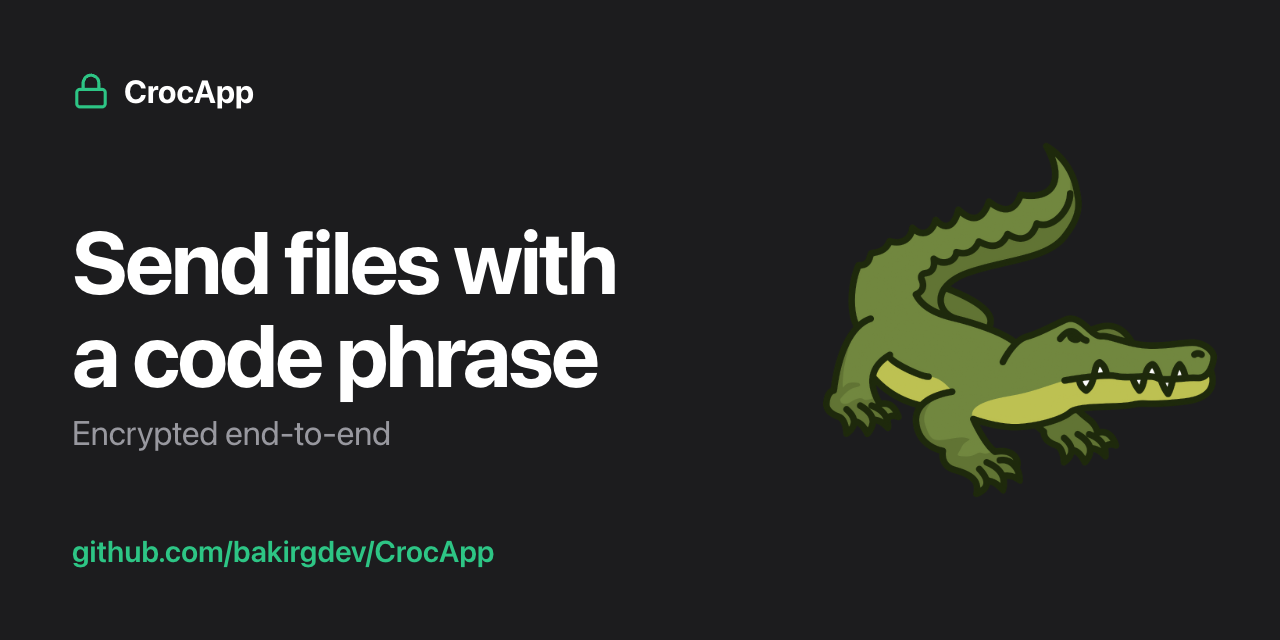
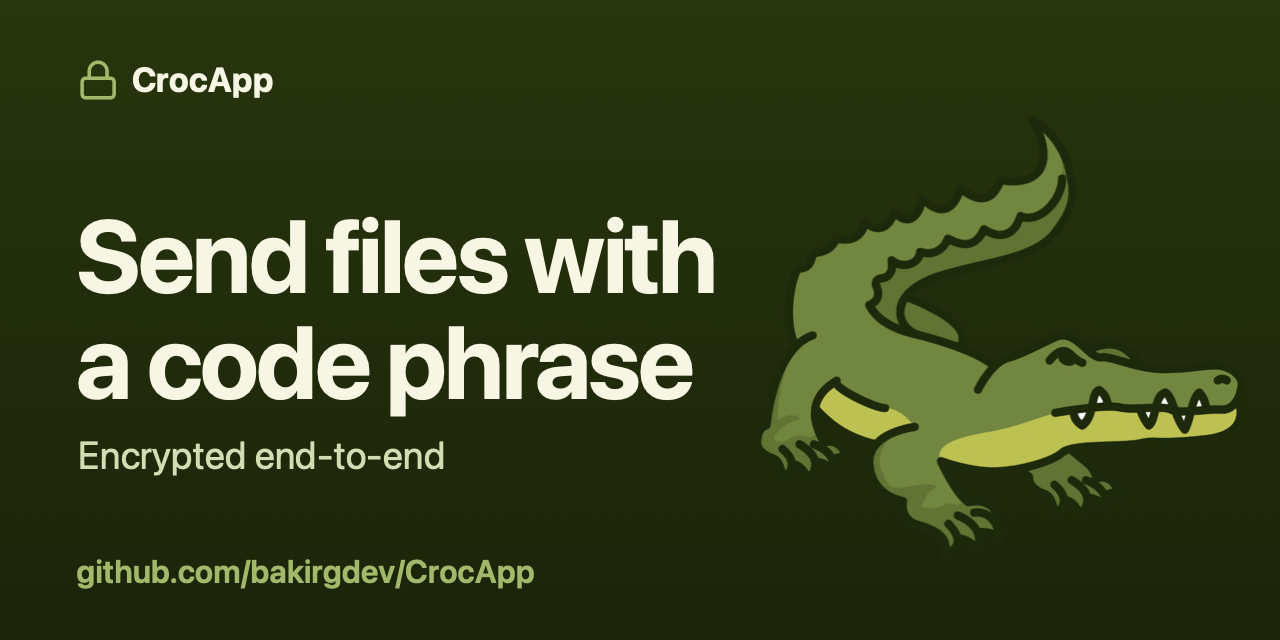
feat(web): tighten the landing and docs copy, SEO and social cards for v1.1.0 (#102)
## What changed
- Landing feature lists, relay FAQ, privacy page (notifications, saved
codes in the Keychain, the relay a Mac can run) and `llms.txt` match the
v1.1.0 features on main. The release status stays at 1.0.0.
- New `web/docs/static/llms.txt` (served at `/docs/llms.txt`), the
own-relay page added to the landing `llms.txt`, sitemap `lastmod`
refreshed.
- New olive social cards from `scripts/social-cards.swift`: `og.jpg`
(1200x630, 109 KB, landing and docs) and
`assets/github-social-preview.png` (1280x640, 252 KB, to upload by hand
in the repo settings).
- `security.txt` stays in `web/landing/.well-known/` (Expires
2027-08-01); decision recorded in landing-page.md.
- landing-page.md, docs-site.md, brand.md and known-issues.md updated.

## Verification
- `scripts/assemble-site.sh` and `pnpm run typecheck` in web/docs: pass.
`scripts/verify-docs.sh`, `scripts/verify-design.sh`: pass. JSON-LD
parses, sitemap is well-formed.
- Lighthouse 13.6.0 (npx), local build behind a gzip server, mobile and
desktop, landing, docs home and a docs page: accessibility, best
practices and SEO 100 everywhere; performance 97 to 100 except landing
mobile, which is intermittently 81 from a pre-paint layout shift
(known-issues.md).

## Not verified
Widgets and Control Center controls are not on main, so they are not
claimed. Social cards not checked in a real unfurl.

diff --git a/web/landing/index.html b/web/landing/index.html
@@ -347,7 +347,7 @@
                 <li><svg aria-hidden="true"><use href="#i-check" /></svg>Files, several at once</li>
                 <li><svg aria-hidden="true"><use href="#i-check" /></svg>Whole folders</li>
                 <li><svg aria-hidden="true"><use href="#i-check" /></svg>Text and clipboard snippets</li>
-                <li><svg aria-hidden="true"><use href="#i-check" /></svg>Send from any app with the share sheet on iPhone and iPad</li>
+                <li><svg aria-hidden="true"><use href="#i-check" /></svg>Send from the share sheet, or from Finder's Share menu on a Mac. Text and links work too</li>
                 <li><svg aria-hidden="true"><use href="#i-check" /></svg>Show a QR code, or share a link, instead of reading the code out</li>
                 <li><svg aria-hidden="true"><use href="#i-check" /></svg>Send as Link: upload encrypted files so the receiver can download later</li>
                 <li><svg aria-hidden="true"><use href="#i-check" /></svg>Zip a folder before sending</li>
@@ -360,7 +360,7 @@
               <h3 class="t-headline card__title">Receive</h3>
               <ul class="featlist t-callout" role="list">
                 <li><svg aria-hidden="true"><use href="#i-check" /></svg>Receive with a code phrase</li>
-                <li><svg aria-hidden="true"><use href="#i-check" /></svg>Set your own code phrase, six characters or more</li>
+                <li><svg aria-hidden="true"><use href="#i-check" /></svg>Set your own code phrase, six characters or more, or keep one per person in the Keychain</li>
                 <li><svg aria-hidden="true"><use href="#i-check" /></svg>Scan a QR code on iPhone and iPad</li>
                 <li><svg aria-hidden="true"><use href="#i-check" /></svg>Open a CrocApp link to fill in the code</li>
                 <li><svg aria-hidden="true"><use href="#i-check" /></svg>See the file list before you accept</li>
@@ -374,11 +374,11 @@
               <h3 class="t-headline card__title">Trust and control</h3>
               <ul class="featlist t-callout" role="list">
                 <li><svg aria-hidden="true"><use href="#i-check" /></svg>Encryption badge and a plain-language explanation</li>
-                <li><svg aria-hidden="true"><use href="#i-check" /></svg>Your own relay, with password and IPv6</li>
+                <li><svg aria-hidden="true"><use href="#i-check" /></svg>Your own relay, with password and IPv6. A Mac can run one, and Check Relay tests it</li>
                 <li><svg aria-hidden="true"><use href="#i-check" /></svg><span><strong>Local Network Only</strong> setting</span></li>
                 <li><svg aria-hidden="true"><use href="#i-check" /></svg>Auto-accept off by default, and marked when on</li>
                 <li><svg aria-hidden="true"><use href="#i-check" /></svg>Ask both devices to confirm</li>
-                <li><svg aria-hidden="true"><use href="#i-check" /></svg>Turn compression off</li>
+                <li><svg aria-hidden="true"><use href="#i-check" /></svg>Turn compression off, skip local discovery, send over one connection</li>
               </ul>
             </article>
 
@@ -386,8 +386,10 @@
               <svg class="card__icon" aria-hidden="true"><use href="#i-zap" /></svg>
               <h3 class="t-headline card__title">Native</h3>
               <ul class="featlist t-callout" role="list">
-                <li><svg aria-hidden="true"><use href="#i-check" /></svg>Progress, speed and cancel, with a Live Activity on iPhone</li>
-                <li><svg aria-hidden="true"><use href="#i-check" /></svg>Quick send from the Mac menu bar</li>
+                <li><svg aria-hidden="true"><use href="#i-check" /></svg>Progress, speed and cancel, with a Live Activity on iPhone that shows no file name unless you ask, and progress in the Mac Dock</li>
+                <li><svg aria-hidden="true"><use href="#i-check" /></svg>A Last Transfer widget, and Send and Receive controls for Control Center</li>
+                <li><svg aria-hidden="true"><use href="#i-check" /></svg>Send and receive from the Mac menu bar</li>
+                <li><svg aria-hidden="true"><use href="#i-check" /></svg>Notifications when a transfer finishes, fails or needs your answer</li>
                 <li><svg aria-hidden="true"><use href="#i-check" /></svg>Shortcuts and Siri actions</li>
                 <li><svg aria-hidden="true"><use href="#i-check" /></svg>Transfer history that stays on your device</li>
                 <li><svg aria-hidden="true"><use href="#i-check" /></svg>Tries the local network and the relay at once</li>
@@ -404,20 +406,20 @@
         <div class="container">
           <div class="section__head">
             <h2 class="t-web-section" id="download-title">Download</h2>
-            <p class="t-web-lead">Free. No account, no tiers. The Mac disk image is available now; the App Store versions are coming.</p>
+            <p class="t-web-lead">Free. No account, no tiers. The first release, v1.1.0, is coming soon for Mac, iPhone and iPad.</p>
           </div>
 
           <div class="grid">
             <div class="card dlcard">
               <svg class="card__icon" aria-hidden="true"><use href="#i-download" /></svg>
               <h3 class="t-headline card__title">Mac disk image</h3>
-              <p class="t-callout card__body">Available now. Notarized, for Apple silicon, with built-in updates.</p>
+              <p class="t-callout card__body">Coming soon with v1.1.0, the first release. Notarized, for Apple silicon, with built-in updates.</p>
               <a
                 class="btn btn--md btn--secondary dlcard__action"
                 href="https://github.com/bakirgdev/CrocApp/releases/latest" target="_blank" rel="noopener"
               >
                 <svg class="btn__icon" aria-hidden="true"><use href="#i-download" /></svg>
-                Download Disk Image
+                GitHub Releases
                 <span class="u-visually-hidden">(opens in a new tab)</span>
               </a>
             </div>
@@ -600,7 +602,9 @@
             <div class="disclosure__body t-callout">
               <p>
                 Yes. Point CrocApp at any croc relay, with a password and IPv6 if you want them.
-                Running <code class="t-code">croc relay</code> on a machine you control is enough.
+                Running <code class="t-code">croc relay</code> on a machine you control is enough, and
+                a Mac running CrocApp can start one from Settings. <strong>Check Relay</strong> reports
+                whether a relay is reachable and accepts your password.
               </p>
             </div>
           </details>
@@ -730,11 +734,10 @@
       </div>
     </footer>
 
-    <!-- No aggregateRating: there are no ratings. downloadUrl is the direct
-         download; add the store listings to it once they exist. softwareVersion
-         and datePublished (the first public release, 0.9.9) are hand-maintained:
-         bump softwareVersion with every release. No FAQPage block: Google limits
-         that rich result to government and health sites. -->
+    <!-- No aggregateRating: there are no ratings. No softwareVersion, downloadUrl,
+         releaseNotes or datePublished until the first release is public: the
+         release PR adds them (RELEASING.md, "Each release"). No FAQPage block:
+         Google limits that rich result to government and health sites. -->
     <script type="application/ld+json">
       {
         "@context": "https://schema.org",
@@ -752,11 +755,7 @@
             "isAccessibleForFree": true,
             "offers": { "@type": "Offer", "price": "0", "priceCurrency": "USD" },
             "author": { "@id": "https://crocapp.dev/#author" },
-            "sameAs": ["https://github.com/bakirgdev/CrocApp"],
-            "downloadUrl": "https://github.com/bakirgdev/CrocApp/releases/latest",
-            "softwareVersion": "1.0.0",
-            "releaseNotes": "https://github.com/bakirgdev/CrocApp/releases",
-            "datePublished": "2026-07-30"
+            "sameAs": ["https://github.com/bakirgdev/CrocApp"]
           },
           {
             "@type": "Person",

diff --git a/scripts/social-cards.swift b/scripts/social-cards.swift
@@ -1,0 +1,85 @@
+// Draws the social cards from the mascot (design/brand.md, "Assets"):
+//
+//   swift scripts/social-cards.swift assets/mascot.png web/landing/assets/img/og.jpg assets/github-social-preview.png
+//
+// og.jpg is 1200x630 in light values and serves the landing page and the docs
+// site. The GitHub social preview is 1280x640 in dark values with the repo
+// address. Colors are the olive tokens of design/tokens.css and the icon's
+// khaki and deep-olive backgrounds (assets/CrocAppIcon.icon/icon.json); change
+// them there first. The system font stands in for SF Pro, which is the web's
+// --font-sans on Apple devices.
+import AppKit
+import ImageIO
+import UniformTypeIdentifiers
+
+func color(_ hex: Int, _ alpha: CGFloat = 1) -> NSColor {
+  NSColor(srgbRed: CGFloat(hex >> 16 & 255) / 255, green: CGFloat(hex >> 8 & 255) / 255, blue: CGFloat(hex & 255) / 255, alpha: alpha)
+}
+
+struct Palette {
+  let top: Int, bottom: Int, ink: Int, secondary: Int, accent: Int
+}
+// secondary and accent clear 4.5:1 on their background in both cards.
+let light = Palette(top: 0xE4E3A9, bottom: 0xF7F6E4, ink: 0x28350D, secondary: 0x4B5A22, accent: 0x5C6B2E)
+let dark = Palette(top: 0x28350D, bottom: 0x1B2409, ink: 0xF7F6E4, secondary: 0xD3DDB4, accent: 0xA3B86A)
+
+func render(_ w: Int, _ h: Int, _ p: Palette, url: String, mascot: NSImage) -> CGImage {
+  let cs = CGColorSpace(name: CGColorSpace.sRGB)!
+  let ctx = CGContext(data: nil, width: w, height: h, bitsPerComponent: 8, bytesPerRow: 0, space: cs, bitmapInfo: CGImageAlphaInfo.noneSkipLast.rawValue)!
+  ctx.translateBy(x: 0, y: CGFloat(h))
+  ctx.scaleBy(x: 1, y: -1)
+  NSGraphicsContext.current = NSGraphicsContext(cgContext: ctx, flipped: true)
+  let s = CGFloat(w) / 1200, H = CGFloat(h)
+  let g = CGGradient(colorsSpace: cs, colors: [color(p.top).cgColor, color(p.bottom).cgColor] as CFArray, locations: [0, 1])!
+  ctx.drawLinearGradient(g, start: .zero, end: CGPoint(x: 0, y: H), options: [])
+
+  func text(_ str: String, size: CGFloat, weight: NSFont.Weight, _ hex: Int, x: CGFloat, y: CGFloat, kern: CGFloat = 0) {
+    let attrs: [NSAttributedString.Key: Any] = [
+      .font: NSFont.systemFont(ofSize: size * s, weight: weight), .foregroundColor: color(hex), .kern: kern * s,
+    ]
+    NSAttributedString(string: str, attributes: attrs).draw(at: CGPoint(x: x * s, y: y * s))
+  }
+
+  // Lucide "lock" (ISC), the accent glyph of the web, drawn at 40px.
+  ctx.saveGState()
+  ctx.translateBy(x: 72 * s, y: (H - 630 * s) / 2 + 70 * s)
+  ctx.scaleBy(x: 40 * s / 24, y: 40 * s / 24)
+  ctx.setStrokeColor(color(p.accent).cgColor)
+  ctx.setLineWidth(2)
+  ctx.setLineCap(.round)
+  ctx.setLineJoin(.round)
+  ctx.addPath(CGPath(roundedRect: CGRect(x: 3, y: 11, width: 18, height: 11), cornerWidth: 2, cornerHeight: 2, transform: nil))
+  let shackle = CGMutablePath()
+  shackle.move(to: CGPoint(x: 7, y: 11))
+  shackle.addLine(to: CGPoint(x: 7, y: 7))
+  shackle.addArc(center: CGPoint(x: 12, y: 7), radius: 5, startAngle: .pi, endAngle: 0, clockwise: false)
+  shackle.addLine(to: CGPoint(x: 17, y: 11))
+  ctx.addPath(shackle)
+  ctx.strokePath()
+  ctx.restoreGState()
+
+  let top = (H - 630 * s) / 2 / s
+  text("CrocApp", size: 32, weight: .bold, p.ink, x: 124, y: top + 70)
+  text("Send files with", size: 96, weight: .bold, p.ink, x: 72, y: top + 196, kern: -2.5)
+  text("a code phrase", size: 96, weight: .bold, p.ink, x: 72, y: top + 296, kern: -2.5)
+  text("Encrypted end-to-end", size: 36, weight: .regular, p.secondary, x: 74, y: top + 420)
+  text(url, size: 30, weight: .semibold, p.accent, x: 72, y: top + 532)
+
+  let m = 470 * s
+  mascot.draw(in: CGRect(x: CGFloat(w) - m - 28 * s, y: (H - m) / 2 + 16 * s, width: m, height: m), from: .zero, operation: .sourceOver, fraction: 1, respectFlipped: true, hints: [.interpolation: NSImageInterpolation.high.rawValue])
+  return ctx.makeImage()!
+}
+
+func write(_ img: CGImage, _ path: String, _ type: UTType, quality: Double? = nil) {
+  let d = CGImageDestinationCreateWithURL(URL(fileURLWithPath: path) as CFURL, type.identifier as CFString, 1, nil)!
+  var opts: [CFString: Any] = [:]
+  if let quality { opts[kCGImageDestinationLossyCompressionQuality] = quality }
+  CGImageDestinationAddImage(d, img, opts as CFDictionary)
+  precondition(CGImageDestinationFinalize(d), "write failed: \(path)")
+}
+
+let args = CommandLine.arguments
+precondition(args.count == 4, "usage: social-cards.swift mascot.png og.jpg github-social-preview.png")
+let mascot = NSImage(contentsOfFile: args[1])!
+write(render(1200, 630, light, url: "crocapp.dev", mascot: mascot), args[2], .jpeg, quality: 0.86)
+write(render(1280, 640, dark, url: "github.com/bakirgdev/CrocApp", mascot: mascot), args[3], .png)

diff --git a/web/landing/privacy/index.html b/web/landing/privacy/index.html
@@ -209,7 +209,7 @@
               photo and no video are saved or sent anywhere.
             </p>
             <p>
-              <strong>Keychain.</strong> A custom relay password, proxy credentials and the receipts
+              <strong>Keychain.</strong> A custom relay password, proxy credentials, the saved code phrases you add and the receipts
               for your stored uploads (which hold the upload token and the link) are kept in the
               iOS or macOS Keychain, not in plain settings. A stored-upload receipt is removed when
               you revoke the link and at the first launch after it expires.
@@ -223,10 +223,30 @@
               Clear it any time from the history screen.
             </p>
             <p>
+              <strong>Notifications.</strong> When CrocApp is in the background, a transfer that
+              finishes, fails or needs your answer posts a notification made on the device. It never
+              shows a code phrase or link, and shows file names only if you turn on
+              <strong>Show File Names in Notifications</strong>.
+            </p>
+            <p>
+              <strong>Widget and Live Activity.</strong> The Last Transfer widget reads a small file
+              that CrocApp keeps in its App Group on the device: the state and time of your last
+              transfer. It never holds a code phrase or link, and holds a file name only if you turn
+              on <strong>Show File Names on the Lock Screen and in Widgets</strong>, the switch that
+              also lets the Live Activity show one. Nothing in it leaves the device.
+            </p>
+            <p>
               <strong>Local network.</strong> To find a nearby device and transfer directly, the
               two devices look for each other with multicast messages on your local network. That
               traffic stays on the local network. iOS asks your
               permission first. Turn on <strong>Local Network Only</strong> to use nothing else.
+            </p>
+            <p>
+              <strong>Relay on your Mac.</strong> If you turn on <strong>Run a Relay</strong> in
+              Settings on a Mac, that Mac accepts connections on the four ports from the one you
+              choose, on every network connection it has. Anyone who can reach it and has the
+              password can use it, so set one. It is off by default, and the relay only ever sees
+              ciphertext.
             </p>
 
             <h2 class="t-web-sub">This website</h2>

diff --git a/docs/knowledge/landing-page.md b/docs/knowledge/landing-page.md
@@ -14,7 +14,7 @@ Operational knowledge for `web/landing/`, the plain HTML site at `https://crocap
 | `.well-known/security.txt` | The address `SECURITY.md` hands out |
 | `llms.txt`, `robots.txt`, `sitemap.xml` | Crawler and assistant files. `robots.txt` lists this sitemap and the docs one |
 | `CNAME`, `404.html` | Custom domain and not-found page |
-| `web/landing/assets/img/` | `mascot-web.webp`, the store badges (SVG), `og.jpg` (the social card, also used by the docs site), `favicon/` (the app-icon based favicon set and `site.webmanifest`, also used by the docs site) and `screenshots/{mac,iphone}/` (the hero shots, WebP, a light and dark file each) |
+| `web/landing/assets/img/` | `mascot-web.webp`, the store badges (SVG), `og.jpg` (the social card, also used by the docs site; regenerate it with `scripts/social-cards.swift`, `design/brand.md`, "Assets"), `favicon/` (the app-icon based favicon set and `site.webmanifest`, also used by the docs site) and `screenshots/{mac,iphone}/` (the hero shots, WebP, a light and dark file each) |
 
 ## How it ships
 
@@ -43,9 +43,17 @@ Every landing page links `site.webmanifest`, the 96px PNG, `favicon.ico` and the
 
 ## Crawler files
 
-- `llms.txt` is hand-written to the llmstxt.org shape: an H1, a blockquote, then H2 sections of `- [Title](url): note` lines. It links every docs page, so a docs page added, renamed or removed is edited here too.
-- `sitemap.xml` lists the landing, support and privacy pages with a `lastmod`. Update the date when a page's content changes. The docs sitemap is generated.
+- `llms.txt` is hand-written to the llmstxt.org shape: an H1, a blockquote, then H2 sections of `- [Title](url): note` lines. It links every docs page, so a docs page added, renamed or removed is edited here too, and in `web/docs/static/llms.txt` (served at `/docs/llms.txt`, `docs-site.md`, "Crawler files").
+- `sitemap.xml` lists the landing, support and privacy pages with a `lastmod`. Update the date when a page's content changes. The JSON-LD in `index.html` is one `@graph` (`SoftwareApplication`, `Person`, `WebSite`); validate it by parsing it as JSON and with the Schema.org validator after an edit. The docs sitemap is generated.
 - `robots.txt` lists both sitemaps.
+
+## Performance checks
+
+Lighthouse is `npx lighthouse` (13.6.0 when last run, the chrome-devtools MCP tool omits performance) against the output of `scripts/assemble-site.sh` served locally, mobile (the default preset) and `--preset=desktop`. `python3 -m http.server` sends no compression, which drags mobile scores down (landing 80, docs home 70); GitHub Pages compresses, so serve through a gzip server for numbers that mean anything. The landing page's intermittent mobile 81 comes from a layout shift before first paint. It was found by repeating the run 6 to 8 times and reading `LayoutShift` events from the saved trace (`--save-assets`); see `known-issues.md`, "Landing page".
+
+## security.txt
+
+`crocapp.dev` has DNS records pointing straight at GitHub Pages (185.199.108.153 to 185.199.111.153), so Cloudflare does not proxy it and cannot serve a `security.txt` of its own. The file therefore stays in `web/landing/.well-known/` and ships with the artifact. `SECURITY.md` hands out its address.
 
 ## Rules
 
@@ -56,7 +64,8 @@ Every landing page links `site.webmanifest`, the 96px PNG, `favicon.ico` and the
 
 Nothing checks these. They are listed in `docs/known-issues.md`, "Landing page":
 
-- Per release: `softwareVersion` in the JSON-LD block of `index.html`, the release status in `llms.txt`, and the "available now" and "coming soon" copy and store cards in `index.html` (`RELEASING.md`, "Each release"). `datePublished` stays the first public release.
+- Nothing is released yet (the first public release is v1.1.0), so the page claims no available version: the Download section says "coming soon", the Mac card links GitHub Releases under that label, and the JSON-LD has no `softwareVersion`, `downloadUrl`, `releaseNotes` or `datePublished`. It is not in the JSON-LD because it would describe a version nobody can get. The release PR adds them and flips the copy in `index.html`, `llms.txt` and the docs install page (`RELEASING.md`, "Each release"). Once added, `datePublished` stays the first public release.
 - The store badges stay unlinked until the apps are on the App Store.
-- `security.txt` has an `Expires` field to renew.
+- `security.txt` has an `Expires` field to renew (keep it at least six months out).
+- The site-wide copy (`index.html` feature lists, `llms.txt`) describes what `main` ships. It can run ahead of the released version, so merge copy for an unreleased feature with the release.
 - The AASA `/r/*` component is wider than the one page that exists.

diff --git a/docs/RELEASING.md b/docs/RELEASING.md
@@ -208,7 +208,7 @@ These steps are done by a person, not by a script. Follow them on a new machine,
 
 1. **Bump the version.** In `app/Config/Version.xcconfig`, set `MARKETING_VERSION` for a new version, and raise `CURRENT_PROJECT_VERSION` for every upload or tag. Do this in its own pull request or commit. A tag run fails when the build number is not above every build in the published `appcast.xml`. App Store Connect refuses a build number it has already seen for that version.
 2. **Write the CHANGELOG heading.** Rename `## [Unreleased]` and date it as `## [X.Y.Z] - YYYY-MM-DD` (Keep a Changelog). `release.yml` requires exactly that heading for the tagged version, requires the section to be non-empty, and publishes the section as the release notes and the Sparkle notes. `X.Y.Z` must be a plain dotted version.
-3. **Update the website.** In `web/landing/index.html`, bump `softwareVersion` in the JSON-LD block and update the "available now" and "coming soon" copy and the store cards. In `web/landing/llms.txt`, update the current release and its status. In `web/landing/sitemap.xml`, bump `lastmod` for each page you changed. `datePublished` stays the first public release (`knowledge/landing-page.md`, "Hand-maintained").
+3. **Update the website.** In `web/landing/index.html`, add `softwareVersion`, `downloadUrl` (the releases page), `releaseNotes` and `datePublished` (the release date) to the JSON-LD block, which carries none while nothing is public, and flip the Download section's "coming soon" copy to "available now" (the lead, the Mac disk image card and its "GitHub Releases" button label, which then becomes "Download Disk Image"), with the store cards once the apps are live. Do the same in `web/docs/content/getting-started/install.md` and in `web/landing/llms.txt` (the release status fact). In `web/landing/sitemap.xml`, bump `lastmod` for each page you changed. `datePublished` is then the first public release and stays (`knowledge/landing-page.md`, "Hand-maintained").
 4. **Rehearse.** With the change on `main`, start the workflow from GitHub Actions with `workflow_dispatch`. Approve the `release` environment deployment as the required reviewer (in the run's page, or with `gh api -X POST repos/<owner>/<repo>/actions/runs/<id>/pending_deployments -F 'environment_ids[]=<env id>' -f state=approved -f comment=...`). The rehearsal builds, signs, notarizes and writes the appcast, and publishes nothing.
 5. **Tag.** Tag the squashed commit on `main` as `vX.Y.Z` and push the tag. The tag must equal `MARKETING_VERSION`. Approve the `release` environment again.
 6. **Verify the published DMG.** Download it from the release and run `xcrun stapler validate <dmg>` and `spctl -a -vv -t open --context context:primary-signature <dmg>`. Expect "Notarized Developer ID". Compare it against `SHA256SUMS.txt`, and run `gh attestation verify <file> --repo bakirgdev/CrocApp`.

diff --git a/docs/known-issues.md b/docs/known-issues.md
@@ -79,9 +79,14 @@ These items gate Submit for Review of the first App Store release (`knowledge/pr
   - `design/implementation.md` allows this for an element that depicts the app.
   - The exception is narrow and easy to over-apply.
 - **The release status in `llms.txt` and `index.html` is hand-maintained and nothing checks it.**
-  - `llms.txt`, the JSON-LD `softwareVersion` and the "available now" copy have to be edited on every release (`RELEASING.md`, "Each release").
-  - The JSON-LD carries only `datePublished`, which stays true. A `dateModified` would go stale on every commit, and templating it from `git log` would put a moving part inside a structured-data block, where a broken template corrupts silently.
-  - `og.jpg` is a second hand-made asset, but it does not change.
+  - `llms.txt`, the JSON-LD `softwareVersion` and the "available now" copy have to be edited on every release (`RELEASING.md`, "Each release"). Until the first release the page says "coming soon" and the JSON-LD carries no version or date.
+  - Once added, `datePublished` stays true. A `dateModified` would go stale on every commit, and templating it from `git log` would put a moving part inside a structured-data block, where a broken template corrupts silently.
+  - `og.jpg` is generated by `scripts/social-cards.swift` and does not change with a release. The `Expires` field of `security.txt` is the other date to renew.
+- **Lighthouse mobile sometimes reports a 0.39 layout shift on the landing hero, and the performance score drops from 100 to about 81.**
+  - About one run in three, the trace shows a shift at 31 ms, before first paint: the stacked Mac shot is laid out 50 by 68 pixels, then at full width. Real browsing did not reproduce it with the throttled-network emulation of the DevTools MCP.
+  - Tried and not fixed it: skipping the initial `syncPictures()` in `app.js`, dropping `decoding="async"`, keeping the toggle hidden, and an explicit `aspect-ratio` on the picture and the image (that one cut the rate but not to zero, and it would duplicate the screenshot dimensions that a recapture can change).
+  - Measured with Lighthouse 13.6.0 (`npx lighthouse`), mobile preset, against `scripts/assemble-site.sh` output behind a gzip static server, 6 to 8 runs per variant; the layout shift comes from the trace's `LayoutShift` events (`--save-assets`).
+  - Retest after the screenshots are recaptured.
 - **The landing CSP is a meta tag, so it cannot stop framing, and the docs site has none.**
   - GitHub Pages cannot send headers. `frame-ancestors` is ignored in a meta tag, so clickjacking of the `/r/` buttons stays open.
   - The docs pages carry no policy, because Docusaurus injects inline scripts that would need a hash for each.

diff --git a/design/brand.md b/design/brand.md
@@ -39,7 +39,7 @@ Type is the system font, SF Mono for code. Glyphs are SF Symbols in the app and 
 ## Imagery
 
 - **Screenshots** come only from `scripts/capture-screenshots.sh`, in light and dark pairs, never hand-edited, cropped or retouched (`docs/knowledge/screenshots.md`). Pages show them unframed, with no device bezel of our own.
-- **Social cards** are hand-made in the layout in the table below and change only together.
+- **Social cards** are drawn by `scripts/social-cards.swift` in the layout in the table below and change only together.
 
 ## Assets
 
@@ -51,8 +51,8 @@ Type is the system font, SF Mono for code. Glyphs are SF Symbols in the app and 
 | Favicons | `assets/favicons/` (source set), `web/landing/assets/img/favicon/` (served copy) | the app icon at web sizes: `favicon.ico`, `favicon-96x96.png`, `apple-touch-icon.png`, `web-app-manifest-{192x192,512x512}.png`, `site.webmanifest`. The docs site references the landing copy |
 | Screenshots | `web/docs/screenshots/`, `web/landing/assets/img/screenshots/` (WebP, tracked), from `assets/screenshots/{mac,iphone,ipad}/<screen>-{light,dark}.png` (capture output, gitignored) | README, docs, landing hero |
 | App Store screenshots | `assets/screenshots/app-store/<class>/NN-<screen>-{light,dark}.png` (generated at submission, gitignored) | App Store Connect |
-| Social card | `web/landing/assets/img/og.jpg` | 1200×630, light: wordmark, accent `lock`, headline "Send files with a code phrase", the line "Encrypted end-to-end", the site URL, mascot on the trailing side |
-| GitHub social preview | `assets/github-social-preview.png` | 1280×640, the same layout in dark values with the repo URL; uploaded by hand in the repo settings |
+| Social card | `web/landing/assets/img/og.jpg` (landing and docs) | 1200×630, light: the icon's khaki gradient, wordmark, olive `lock`, headline "Send files with a code phrase", the line "Encrypted end-to-end", the site URL, mascot on the trailing side. Drawn by `scripts/social-cards.swift` |
+| GitHub social preview | `assets/github-social-preview.png` | 1280×640, the same layout on the icon's deep olive with the repo URL, from the same script; uploaded by hand in the repo settings |
 | Disk image background | `assets/dmg-background.tiff` | `docs/RELEASING.md`, "Disk image" |
 | App Store badges | `web/landing/assets/img/app-store.svg`, `mac-app-store.svg` | Apple's artwork, below |
 

diff --git a/docs/knowledge/docs-site.md b/docs/knowledge/docs-site.md
@@ -23,6 +23,10 @@ To build the full Pages artifact (both surfaces, what CI publishes) locally:
 scripts/assemble-site.sh          # writes ./_site/, landing at /, docs at /docs/
 ```
 
+## Crawler files
+
+`web/docs/static/llms.txt` is the hand-written docs index (llmstxt.org shape), served at `/docs/llms.txt`. A page added, renamed or removed is edited there and in the landing `llms.txt` (`landing-page.md`, "Crawler files"). There is no `llms-full.txt`: Docusaurus does not generate one, and the only route is a third-party plugin, a new dependency this repo has not adopted. The sitemap at `/docs/sitemap.xml` is generated and listed in the landing `robots.txt`.
+
 ## Content and styling rules
 
 - Page copy is bound by `design/voice.md` (terminology, capitalization, the approved security claims) and `design/brand.md`. Headings and sidebar titles are sentence case; app controls are quoted in bold, Title Case, exactly as the app spells them.

diff --git a/web/docs/content/getting-started/install.md b/web/docs/content/getting-started/install.md
@@ -12,7 +12,7 @@ The other device needs **croc 11 or newer**, whether it runs CrocApp or the croc
 
 ## Where to get it
 
-The disk image for Mac is available now. The App Store and Mac App Store versions are coming, and [crocapp.dev](https://crocapp.dev) links them once they are live.
+The first release, v1.1.0, is coming soon: a disk image for Mac on GitHub Releases, then the App Store and Mac App Store versions. [crocapp.dev](https://crocapp.dev) links them once they are live.
 
 | Channel | For | Where |
 |---|---|---|
